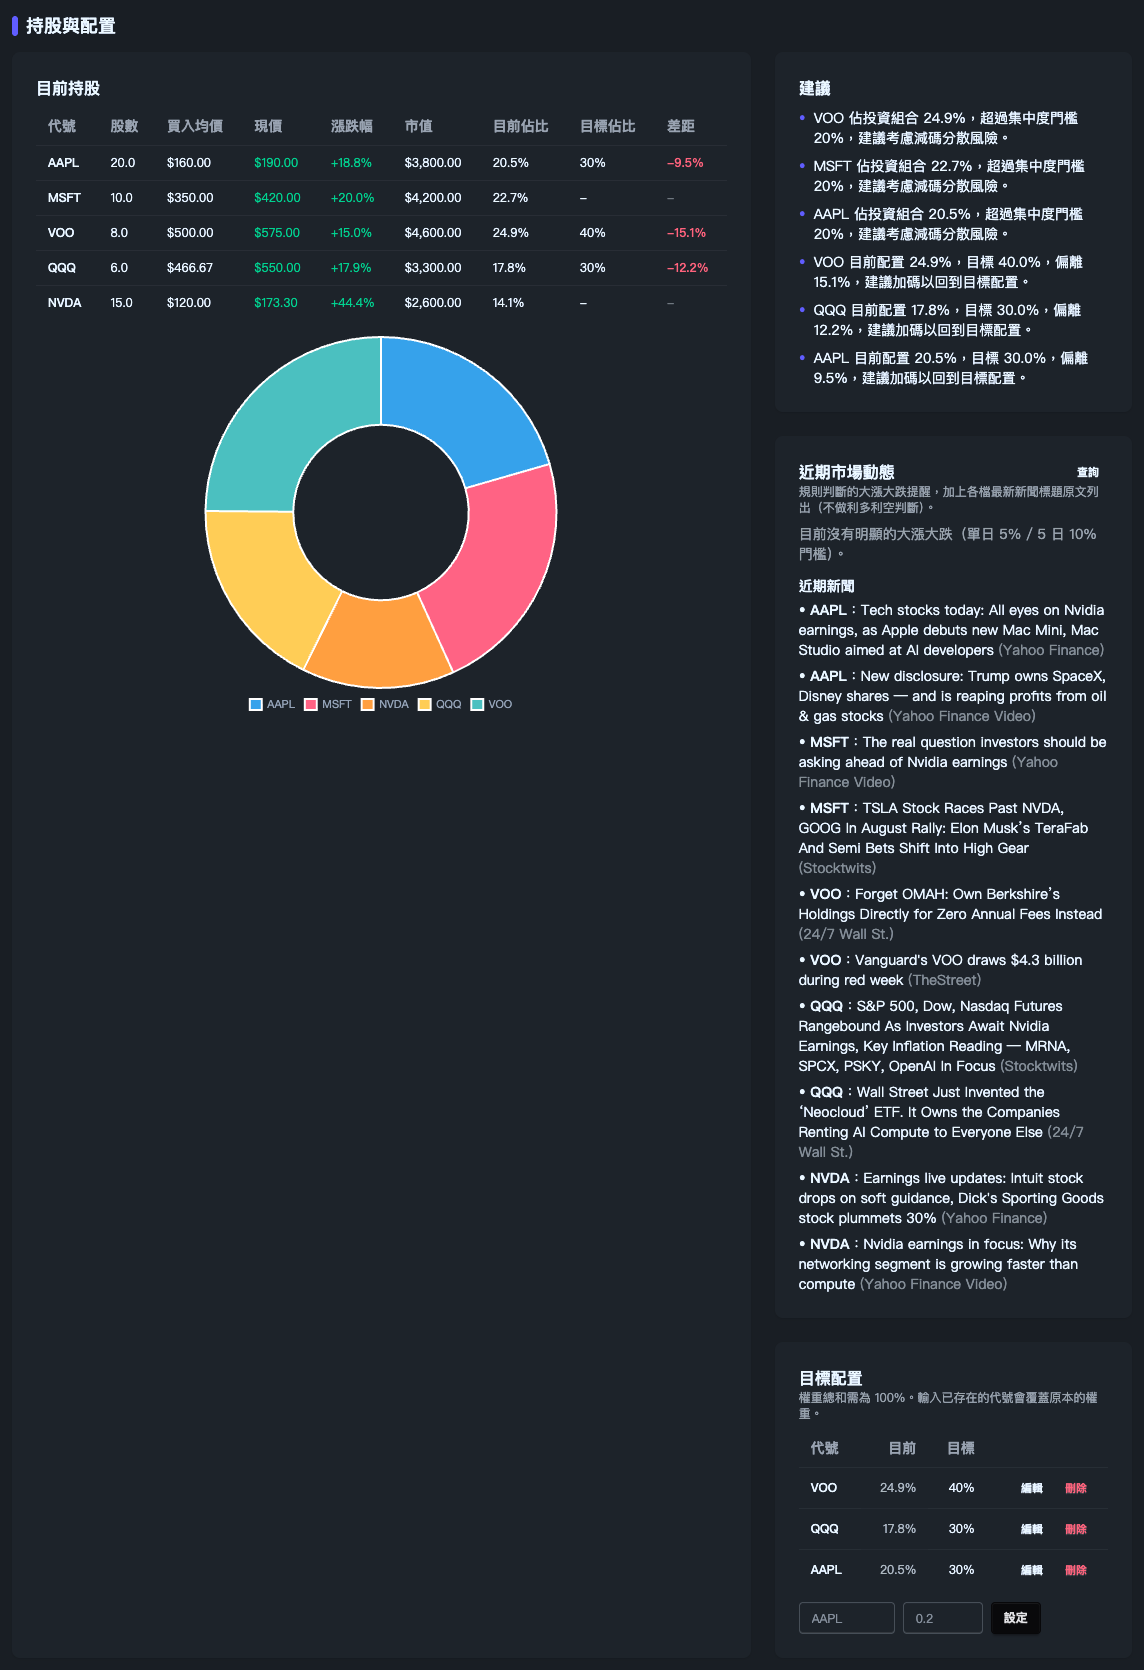
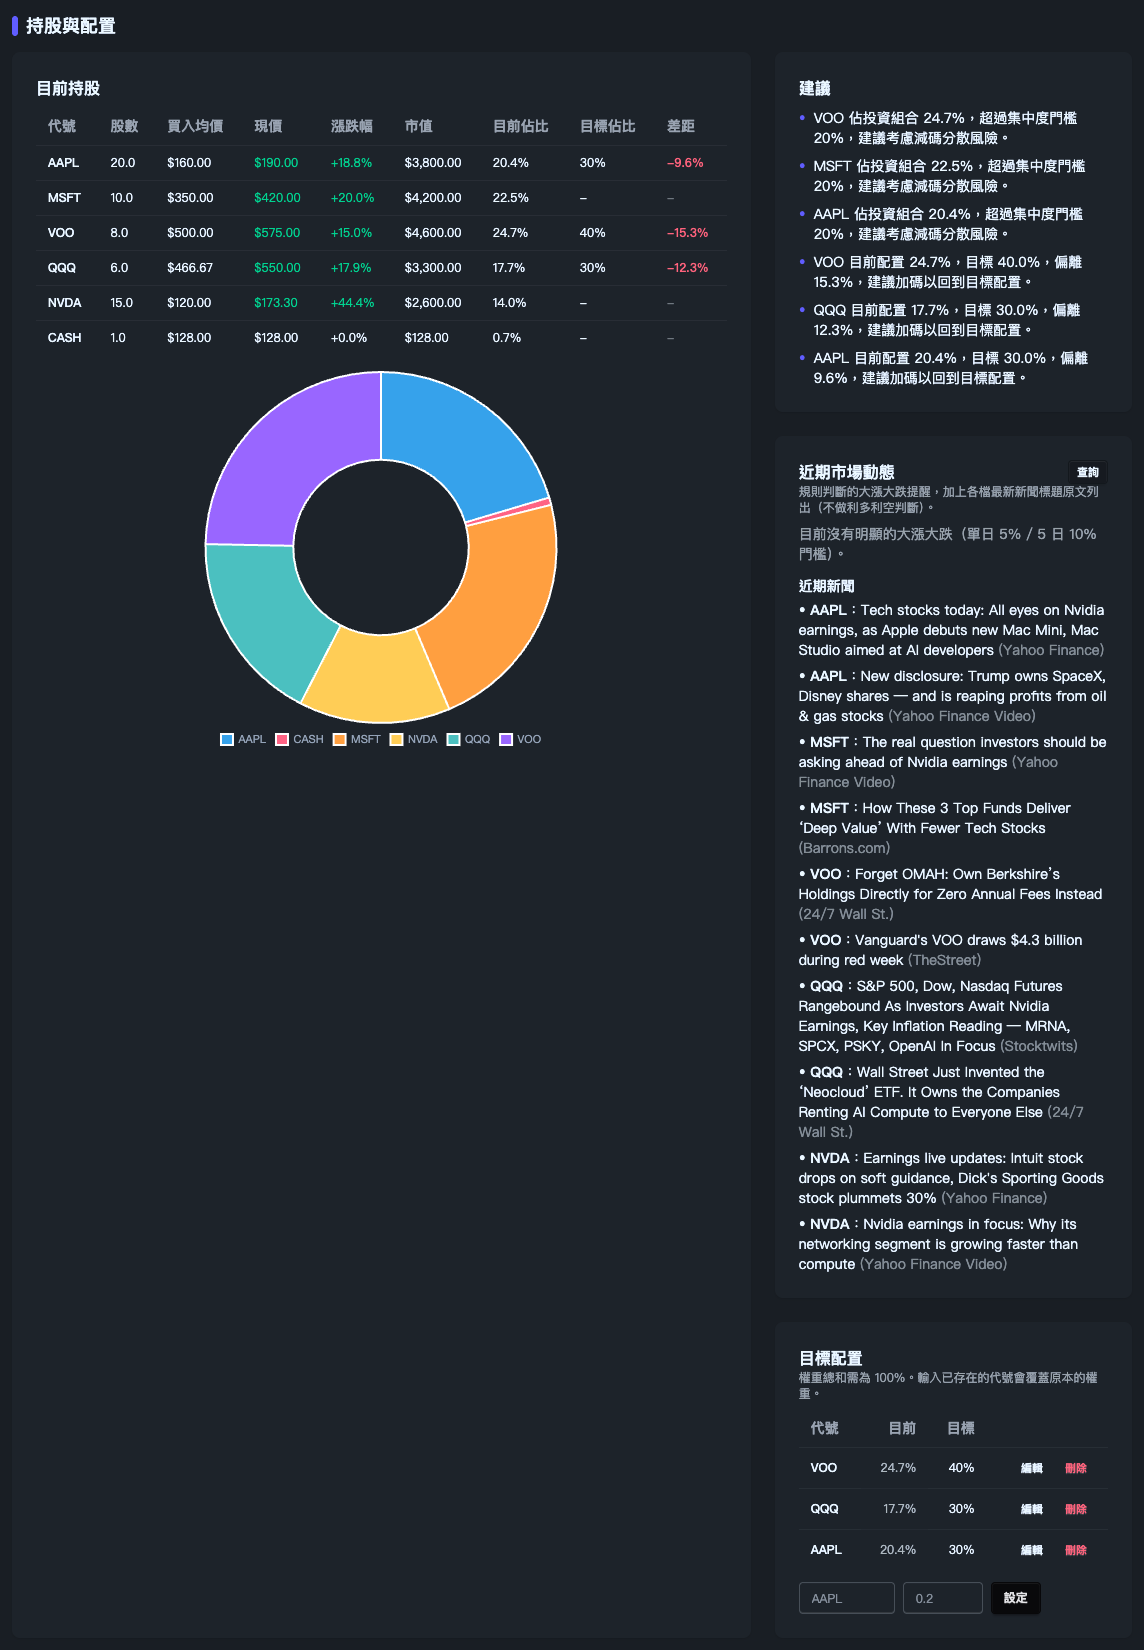
Fix CASH ticker collision in market-moves, refresh README screenshots and changelog

diff --git a/app/main.py b/app/main.py
@@ -172,7 +172,10 @@ def market_moves():
         db.close()
     if not snapshots:
         return JSONResponse({"error": "還沒有持股資料，請先按「重新抓取持股」"}, status_code=400)
-    symbols = [s["symbol"] for s in snapshots]
+    # "CASH" is our synthetic cash-balance row, not a real ticker — but it
+    # collides with an actual Nasdaq symbol (Pathward Financial), so leaving
+    # it in would pull that unrelated company's price swings/news.
+    symbols = [s["symbol"] for s in snapshots if s["symbol"] != "CASH"]
     try:
         swings = price_swings(symbols)
         news = recent_news(symbols)

diff --git a/README.md b/README.md
@@ -110,6 +110,8 @@ cp .env.example .env   # 填入下面的環境變數
 
 ## 更新紀錄
 
+- 修正「近期市場動態」會把合成的 `CASH` 現金列誤當成真實股票代號查詢（跟 Nasdaq 上市代號 CASH 撞名），導致顯示不相關公司新聞的 bug
+- CI/圖示：favicon 與頁首圖示換成實際的柴犬圖片（自備圖片，壓縮到 128px 內嵌），拿掉不必要的白底圈
 - 正式接上 Neon Postgres；USD/TWD 匯率改成每次「重新抓取持股」時存一筆快照（`exchange_rate_snapshots`），首頁改讀資料庫最新一筆，不再每次載入頁面都即時查匯率
 - 再平衡回測改成一進頁面就自動載入（前提是已設定目標配置），跟持股歷史走勢一致
 - 持股歷史走勢／再平衡回測新增「移除我的持股組合」選項，比較線不再被持股中最晚上市的標的限制起始日期
